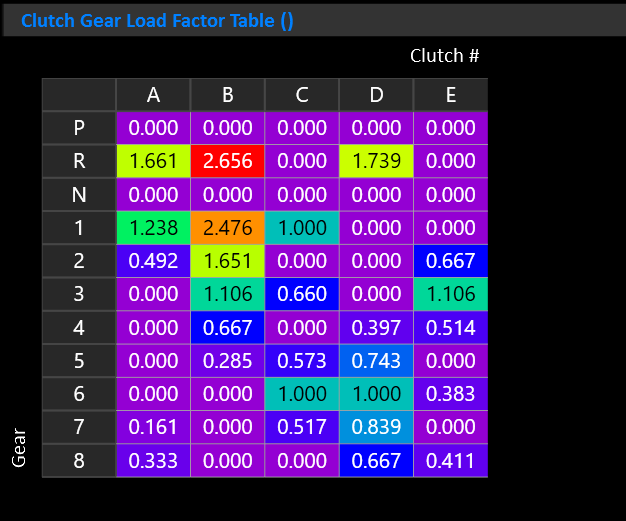
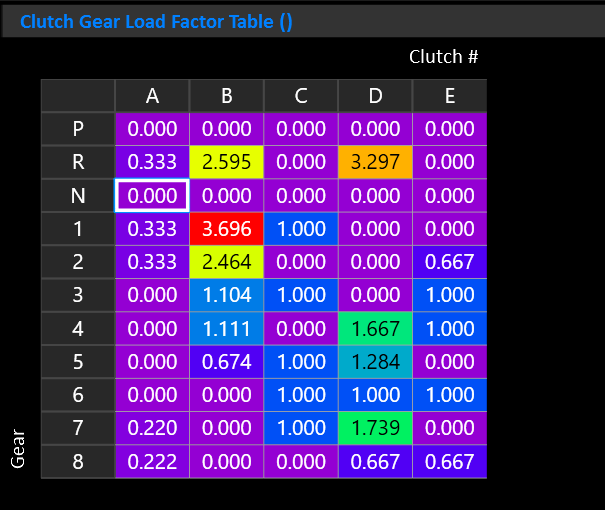
Added lots to TM16 Getting Started

diff --git a/content/transmission-control/getting-started.md b/content/transmission-control/getting-started.md
@@ -6,6 +6,8 @@ weight: 2
 ## Wiring
 Read and follow the wiring information [here](./wiring/power-wiring.md). It's very important that the TCM is powered correctly.
 
+---
+
 ## Mandatory Engine & Driver Inputs
 The following inputs MUST be configured for normal transmission operation. Input's can be sourced from physical inputs or CAN data. 
 
@@ -47,6 +49,8 @@ A combination of inputs that allow the selection of drive modes and gears, such 
 
 For more info on drive modes see [here](./tuning/drive-modes.md).
 
+---
+
 ## Additional Engine Inputs
 The following inputs are recommended to improve the quality of transmission management:
  - Engine Idle Target Speed
@@ -84,3 +88,206 @@ There are many runtime channels generated by the TCM that can be transmitted via
  - **Down Shift Rev Match Status**: Normally Off (0). Transitions to On (1) while a down shift rev match is being requested.
  - **Rev Match Target**: Normally 0 RPM. During a rev-match request the desired target RPM is shown.
  - **Rev Match Torque**: Normally 0 NM. During a down shift rev-match request the TCM will calculate the unloaded engine torque required to lift the engine speed to the rev-match target.
+
+ ---
+
+## Ethernet Connection
+Once powered up, connect the TCM's [ethernet](./wiring/ethernet-wiring.md) to your PC's ethernet port (or USB ethernet adapter). There's no need to set a static IP address. If you're ethernet adapter is already setup for an Emtron ECU's static IP, it can stay unchanged.
+
+The initial connection will take about 5-10 seconds to establish. When the TCM is detected, TMtune will show the available devices panel.
+![Available Device List](/img/tm16/detected_device.png)
+
+---
+
+## Firmware
+The latest TCM firmware is included with TMtune. Once detected you can select the TCM and click the `Update Firmware` button. 
+
+The firmware update window shows the current device firmware and lists the version available to upload (usually there will only be one). Unless the current firmware version is older than the latest version, there's no need to update.
+![Firmware Update Window](/img/tm16/firmware_update_1.png)
+
+>[!INFO] The update takes about 30 seconds to complete.
+
+---
+## Transmission Specific Information
+Read any documentation for your transmission if available. This list will grow over time as we develop more application specific base calibrations.
+
+[Transmission Documentation](./transmissions/_index.md)
+
+---
+
+## Base Cal File
+If you are using a transmission with a base cal file available, now is the time to upload the latest base cal file. The files are included with TMtune. You can either upload the file from the welcome screen or you can open the device and upload a file from the File menu.
+
+> By default, base cal files are located in `Documents\Emtron\TMtune\Cal Files`
+
+---
+
+## Gear Ratios
+Even if you're using a base provided base calibration, it's worth double checking the gear ratios are correct as many ratio options may exist for a given transmission.
+
+![TCM Gear Ratio Table](/img/tm16/gear_ratio_table.png)
+
+The correct gear ratios must also be entered into the ECU.
+
+![ECU Gear Ratio Table](../../img/tm16/ecu_gear_ratio_table.png)
+
+The TCM generates two gear ratio runtimes:
+ - **Gear Ratio**: the output from the gear ratio table
+ - **Input/Output Shaft Speed Ratio**: Input shaft speed / Output Shaft Speed.
+
+These two values should be the same when in a driving gear. This is particularly useful for validating the input and output shaft speed sensors and that you are in the gear you think you are.
+
+---
+
+## CAN
+Ensure communications with the engine ECU are working. Follow the [Emtron ECU Integration Guide](./tuning/emtron-ecu-integration.md) to set up the ECU.
+
+>[!IMPORTANT] Remember to set the CAN bus termination resistor(s) on or off as required for you bus topology.
+
+To quickly validate the state of the CAN bus, Goto the CAN tab in the F3 Runtimes window and ensure there are no errors and that the active channel counters are showing activity.
+
+![F3 CAN](/img/tm16/f3_can.png)
+
+---
+
+## Validating I/O
+Open the device and inspect a few key the live data channels.
+
+Press F3 to open the **Runtimes window**:
+ - On the TCM Internal tab, ensure that **ALL** the power supply inputs are at battery voltage. Any that aren't must be rectified or the TCM outputs will not work.
+![F3 Power Supplies](/img/tm16/f3_power_supplies.png)
+ - Use the Analog Inputs and Digital Inputs tabs to validate the state of the raw inputs. Test that the raw inputs of switches and sensors are working as expected.
+
+### Testing Solenoids
+From the Config tree, navigate to **Output Config > Output Pins**. From there you can place each output into a test mode to validate it's physical connection.
+
+By putting the output into `Test - Current Control` mode you can command the solenoid to a desired current and check the result with the F3 Runtimes window on the Outputs tab. 
+
+The actual current draw of the solenoid should very closely match the target, as long as the solenoid isn't saturated. 
+ - A solenoid that saturates at 0.5A will never draw more than that.
+ - Most variable force transmission solenoids will be able to draw 1.0-1.5A.
+ - Smaller on/off type solenoids will typically be well under 1.0A.  
+
+![Solenoid Test](/img/tm16/solenoid_test_1.png)
+
+>[!TIP] 
+>If a solenoid doesn't draw any current while being commanded to do so in test mode, it's probably an open circuit.
+
+### Input Sources
+Under **Input Config**, ensure all relevant inputs are assigned to the correct source that matches the wiring and/or CAN configuration. This is particularly important if you've wired something different how the base cal file you're using.
+
+![Input Sources](/img/tm16/input_config.png)
+
+--- 
+
+## Output Assignment
+Under **Output Config**, ensure all relevant outputs are assigned to match your wiring.
+
+![Output Config](/img/tm16/output_config.png)
+
+---
+
+## Torque
+Ensure that the received engine torque data is valid and realistic.
+Use the following criteria to validate the torque input...
+
+With the engine unloaded in Neutral:
+ - Engine speed stable: Torque should be zero.
+ - Engine accelerating: Torque should be positive.
+ - Engine decelerating: Torque should be negative.
+
+Torque figures should be verified against dyno figures. Remember that the torque given to the TCM will be flywheel torque, where-as on a chassis dyno, the figures will be wheel torque after drivetrain losses. For this reason it's expected that the TCM's input torque should always be higher than the dyno figures by some realistic margin to account for drivetrain losses.
+
+### Engine Inertia
+A sensible value for engine inertia ensures that shifts synchronize well, with less reliance on closed loop control.
+
+Under **Vehicle Setup > Vehicle Setup** enter an inertia value for the engine.
+You can also use the Engine Inertia Test mode to help find a useable value.
+
+>[!IMPORTANT]
+>**Engine Inertia Test** relies on accurate engine torque data to work.
+
+### Torque Limits
+The most critical torque limit is the Up Shift Torque Limit. Now is a good time to make sure it has sensible values in it.
+
+Navigate to **Shift Setup > Up Shift > Up Shift Torque Limit**.
+
+![Up Shift Torque Reduction](/img/tm16/tq_reduction_table.png)
+
+For more info of how torque reductions are applied, see [here](./tuning/multi-clutch-shifting.md#torque-reductions).
+
+### ECU Torque Control
+Emtron ECU's will abide by torque limits set by the TCM with very little tuning burden on the end user.
+
+#### Frictional Loss
+Torque is calculated by the ECU based on air mass. As long as the fuel system model is accurate the torque model will usually be very accurate. The user needs to focus primarily on validating[Frictional Loss](../articles/frictional-loss.md).
+
+When a torque reduction is requested, the ECU will use a combination of ignition retard and cut to achieve it.
+
+#### Ignition Retard Scaling
+The amount of retard used is calculated using the **Torque Limit Ignition Retard Scaling Table**.
+This table allows the ECU to lookup the amount of retard rquired for a given percentage of torque reduction, as well as how much torque will be reduced from a given retard value.
+**Example:**
+```
+Engine Torque (Available) = 500 Nm
+Torque Limit = 300 Nm
+Torque Reduction = 500 - 200 = 200 Nm
+Toque Reduction % = (200 / 500) * 100 = 40%
+Ignition Retard = Table Value @ 40% = 24 degrees.
+```
+![Torque Limit Ignition Retard Scaling Table](/img/tm16/tq_retard_scaling.png)
+
+The Torque Limit Ignition Retard Scaling Table can be validated on the dyno by testing the torque reduction for a given global ignition trim. We have found that the above table is very useable for a wide range of applications without manual validation.
+
+#### Cut Scaling
+Similar to the ignition retard scaling, the amount of cut required for a given torque reduction is controlled by the **Torque Limit Cut Gain Table**. 
+A value of 1.00 in this table tells the ECU that for a 50% torque reduction, it needs a 50% cut.
+
+![Torque Limit Cut Gain Table](/img/tm16/tq_cut_gain_table.png)
+
+#### TM16 Engine Cut Setup
+The TM16 will transmit a Fast and Slow torque limit value to the ECU. The Fast limit is used during shifts, the Slow limit is used during sustained torque limit such as the Global Torque Limit.
+The ECU interprets the Fast Limit as a retard based limit, and the Slow limit as a throttle based limit.
+In the TM16 Menu, you can control how the ECU converts the retard based fast limit into a cut with the **TCM Torque Limit Engine Cut threshold**. The lower this value is, the more cutting will be used to meet the torque limit.
+
+![TM16 Engine Cut Setup](/img/tm16/tm16_engine_cut_setup.png)
+
+---
+
+## Touch Points
+
+>[!IMPORTANT] 
+>On every new install, you must find the clutch touch points. 
+
+The procedure for doing so is [here](./tuning/clutch-touch-points.md).
+
+---
+
+## Tuning
+It's common for tuners to be managing tuning the engine at the same time as the transmission. Once all the critical systems have been validated and all gears are confirmed working, you should be able to focus on the engine to get the ECU's torque model validated.
+
+Once you have confidence in the torque figures in the TCM, you can validate that the transmission operates correctly under load. How this looks will vary a lot depending on the transmission config. 
+
+Familiarize yourself with [Multi-Clutch Shift Phases](./tuning/multi-clutch-shifting.md). 
+
+**At this stage you should be able to:**
+ - Engage all forward and reverse gears.
+ - Apply high torque in gear without any clutch slip.
+ - Change gear without excessive flaring or harshness.
+
+---
+
+## Trouble Shooting
+#### Clutch slip in gear
+ - Check the torque input is not too low.
+ - Line pressure is not too low.
+ - Clutch and line pressure solenoids are tracking their current targets.
+
+#### Flaring on shifts
+ - Check the torque input is not too low.
+ - Check the [Clutch Modelling](./tuning/clutch-model.md)
+ - Check the [Clutch Touch Points](./tuning/clutch-touch-points.md)
+ - If applicable, make sure a valid [Clutch Gear Load Factor Table](./tuning/clutch-model.md#clutch-gear-load-factor) is in use.
+ - Line pressure is high enough to support the clutch pressure.
+ - Clutch and line pressure solenoids are tracking their current targets.
+ - Torque reductions are being acted on by the Engine ECU.

diff --git a/content/transmission-control/tuning/multi-clutch-shifting.md b/content/transmission-control/tuning/multi-clutch-shifting.md
@@ -143,6 +143,25 @@ Any torque reduction that is enabled by the user is applied now to aid in syncin
 >[!TIP] 
 >If the engine continues to limit torque after the clutch is synced and locked, the shift will feel harsh.
 
+There are 3 tables that control the up shift torque limit:
+ - **Up Shift Torque Limit Enable**: determines if a torque limit is allowed or not.
+ - **Up Shift Torque Limit**: Absolute explicit torque limit value.
+ - **Up Shift Torque Reduction**: Torque reduction as a percentage of Engine Torque (Available).
+
+The lowest torque limit output from the tables will be used.
+
+**For Example:**
+```
+Engine Torque (Available): 800 Nm
+Up Shift Torque Limit Enable: ON
+Up Shift Torque Limit: 500 Nm
+Up Shift Torque Reduction: 40%
+```
+```
+Up Shift Torque Reduction = 800 - (40% of 800) = 800 - 320 = 480 Nm.
+```
+Because 480 Nm is less than the 500 Nm absolute limit, 480 Nm will be used.
+
 ---
 
 ## Lock Phase

diff --git a/content/transmission-control/wiring/ethernet-wiring.md b/content/transmission-control/wiring/ethernet-wiring.md
@@ -11,4 +11,4 @@ The TCM uses 10/100Base-T Ethernet communications. It only requires 4 wires (2 p
 | Tx+    | C22     | 1        | Green/White  |
 | Tx-    | C23     | 2        | Green        |
 
-> No special ethernet configuration is required. TMtune will detect the device using an IPv6 Link Local Address.
+>[!INFO] No special ethernet configuration is required. TMtune will detect the device using an IPv6 Link Local Address.